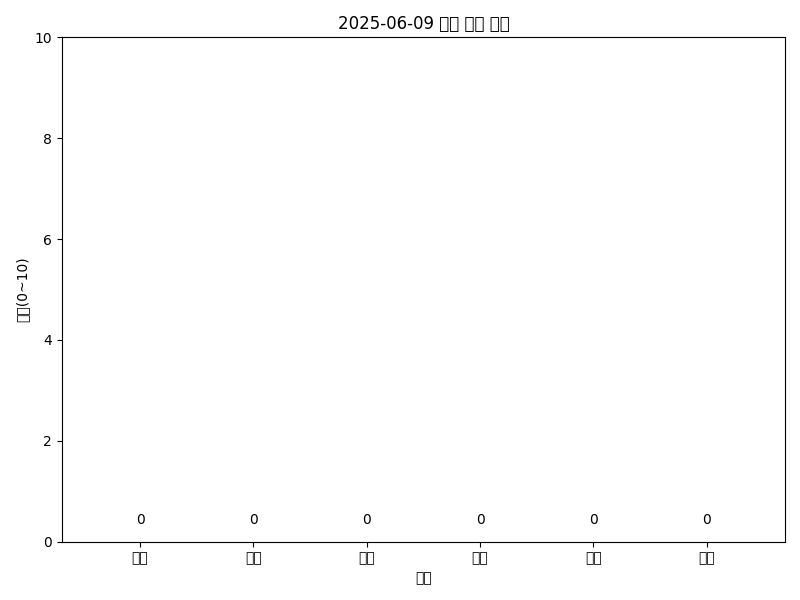
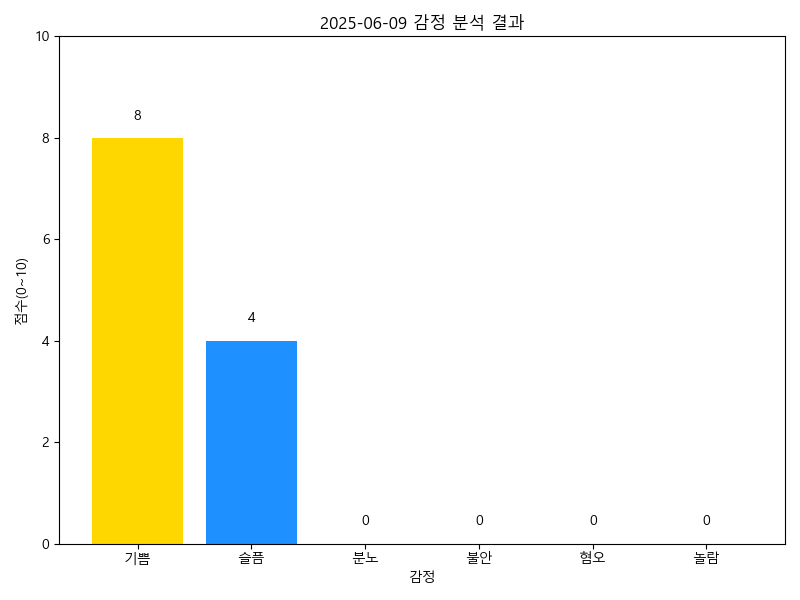
그래프 출력 해결

diff --git a/project.py b/project.py
@@ -40,11 +40,11 @@ def get_summary(diary):
     response = requests.post(
         url="https://openrouter.ai/api/v1/chat/completions",
         headers={
-            "Authorization": "Bearer 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",
+            "Authorization": "Bearer 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",
             "Content-Type": "application/json"
   },
         data=json.dumps({
-            "model": "meta-llama/llama-3.3-8b-instruct:free",
+            "model": "deepseek/deepseek-r1-0528-qwen3-8b:free",
             "messages": [
             {
                 "role": "user",
@@ -71,11 +71,11 @@ def get_advice(diary):
     response = requests.post(
         url="https://openrouter.ai/api/v1/chat/completions",
         headers={
-            "Authorization": "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",
+            "Authorization": "Bearer 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",
             "Content-Type": "application/json"
   },
         data=json.dumps({
-            "model": "meta-llama/llama-3.3-8b-instruct:free",
+            "model": "deepseek/deepseek-r1-0528-qwen3-8b:free",
             "messages": [
             {
                 "role": "user",
@@ -108,17 +108,18 @@ def get_emotion_scores(diary):
     """
     prompt = (
         f"다음 일기를 읽고 감정을 0~10 숫자로 분석해줘.\n"
-        f"정확히 이 JSON 형식으로만 응답해줘:\n"
+        f"절대 설명없이, 정확히 이 JSON 형식으로만 응답해줘:\n"
+        f'예시는 다음과 같아. {{"기쁨": 8, "슬픔": 2, "분노": 1, "불안": 1, "혐오": 0, "놀람": 2}} \n'
         f'{{"기쁨":숫자, "슬픔":숫자, "분노":숫자, "불안":숫자, "혐오":숫자, "놀람":숫자}}\n\n{diary}'
     )
     response = requests.post(
         url="https://openrouter.ai/api/v1/chat/completions",
         headers={
-            "Authorization": "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",
+            "Authorization": "Bearer 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",
             "Content-Type": "application/json"
-        },
+  },
         data=json.dumps({
-            "model": "meta-llama/llama-3.3-8b-instruct:free",
+            "model": "deepseek/deepseek-r1-0528-qwen3-8b:free",
             "messages": [
             {
                 "role": "user",
@@ -131,8 +132,12 @@ def get_emotion_scores(diary):
         try:
             result = response.json()
             content = result["choices"][0]["message"]["content"]
-            emotion_data = json.loads(content)
-            return emotion_data
+            try:
+                 emotion_data = json.loads(content)
+                 return emotion_data
+            except json.JSONDecodeError:
+                print("JSON 형식이 아님")
+                return{}
         except Exception as e:
             print("감정 분석을 불러오는 데 문제가 있어요:", e)
             print("응답 내용:\n", result["choices"][0]["message"]["content"])
@@ -162,7 +167,8 @@ def visualize_emotion_scores(emotion_scores, date_str):
     emotions = ['기쁨', '슬픔', '분노', '불안', '혐오', '놀람']
     scores = [emotion_scores.get(emotion,0) for emotion in emotions]
     colors= [ emotion_colors[emotion] for emotion in emotions]
-
+    
+    plt.rcParams['font.family'] = 'Malgun Gothic'
     plt.figure(figsize=(8,6))
     bars = plt.bar(emotions, scores, color = colors)
 
@@ -177,6 +183,7 @@ def visualize_emotion_scores(emotion_scores, date_str):
     img_path = DATA_SAVE / f"{date_str}_emotion.png"
     plt.tight_layout()
     plt.savefig(img_path)
+    plt.show()
     plt.close()
     print(f"감정 이미지 저장됨: {img_path}")
 
